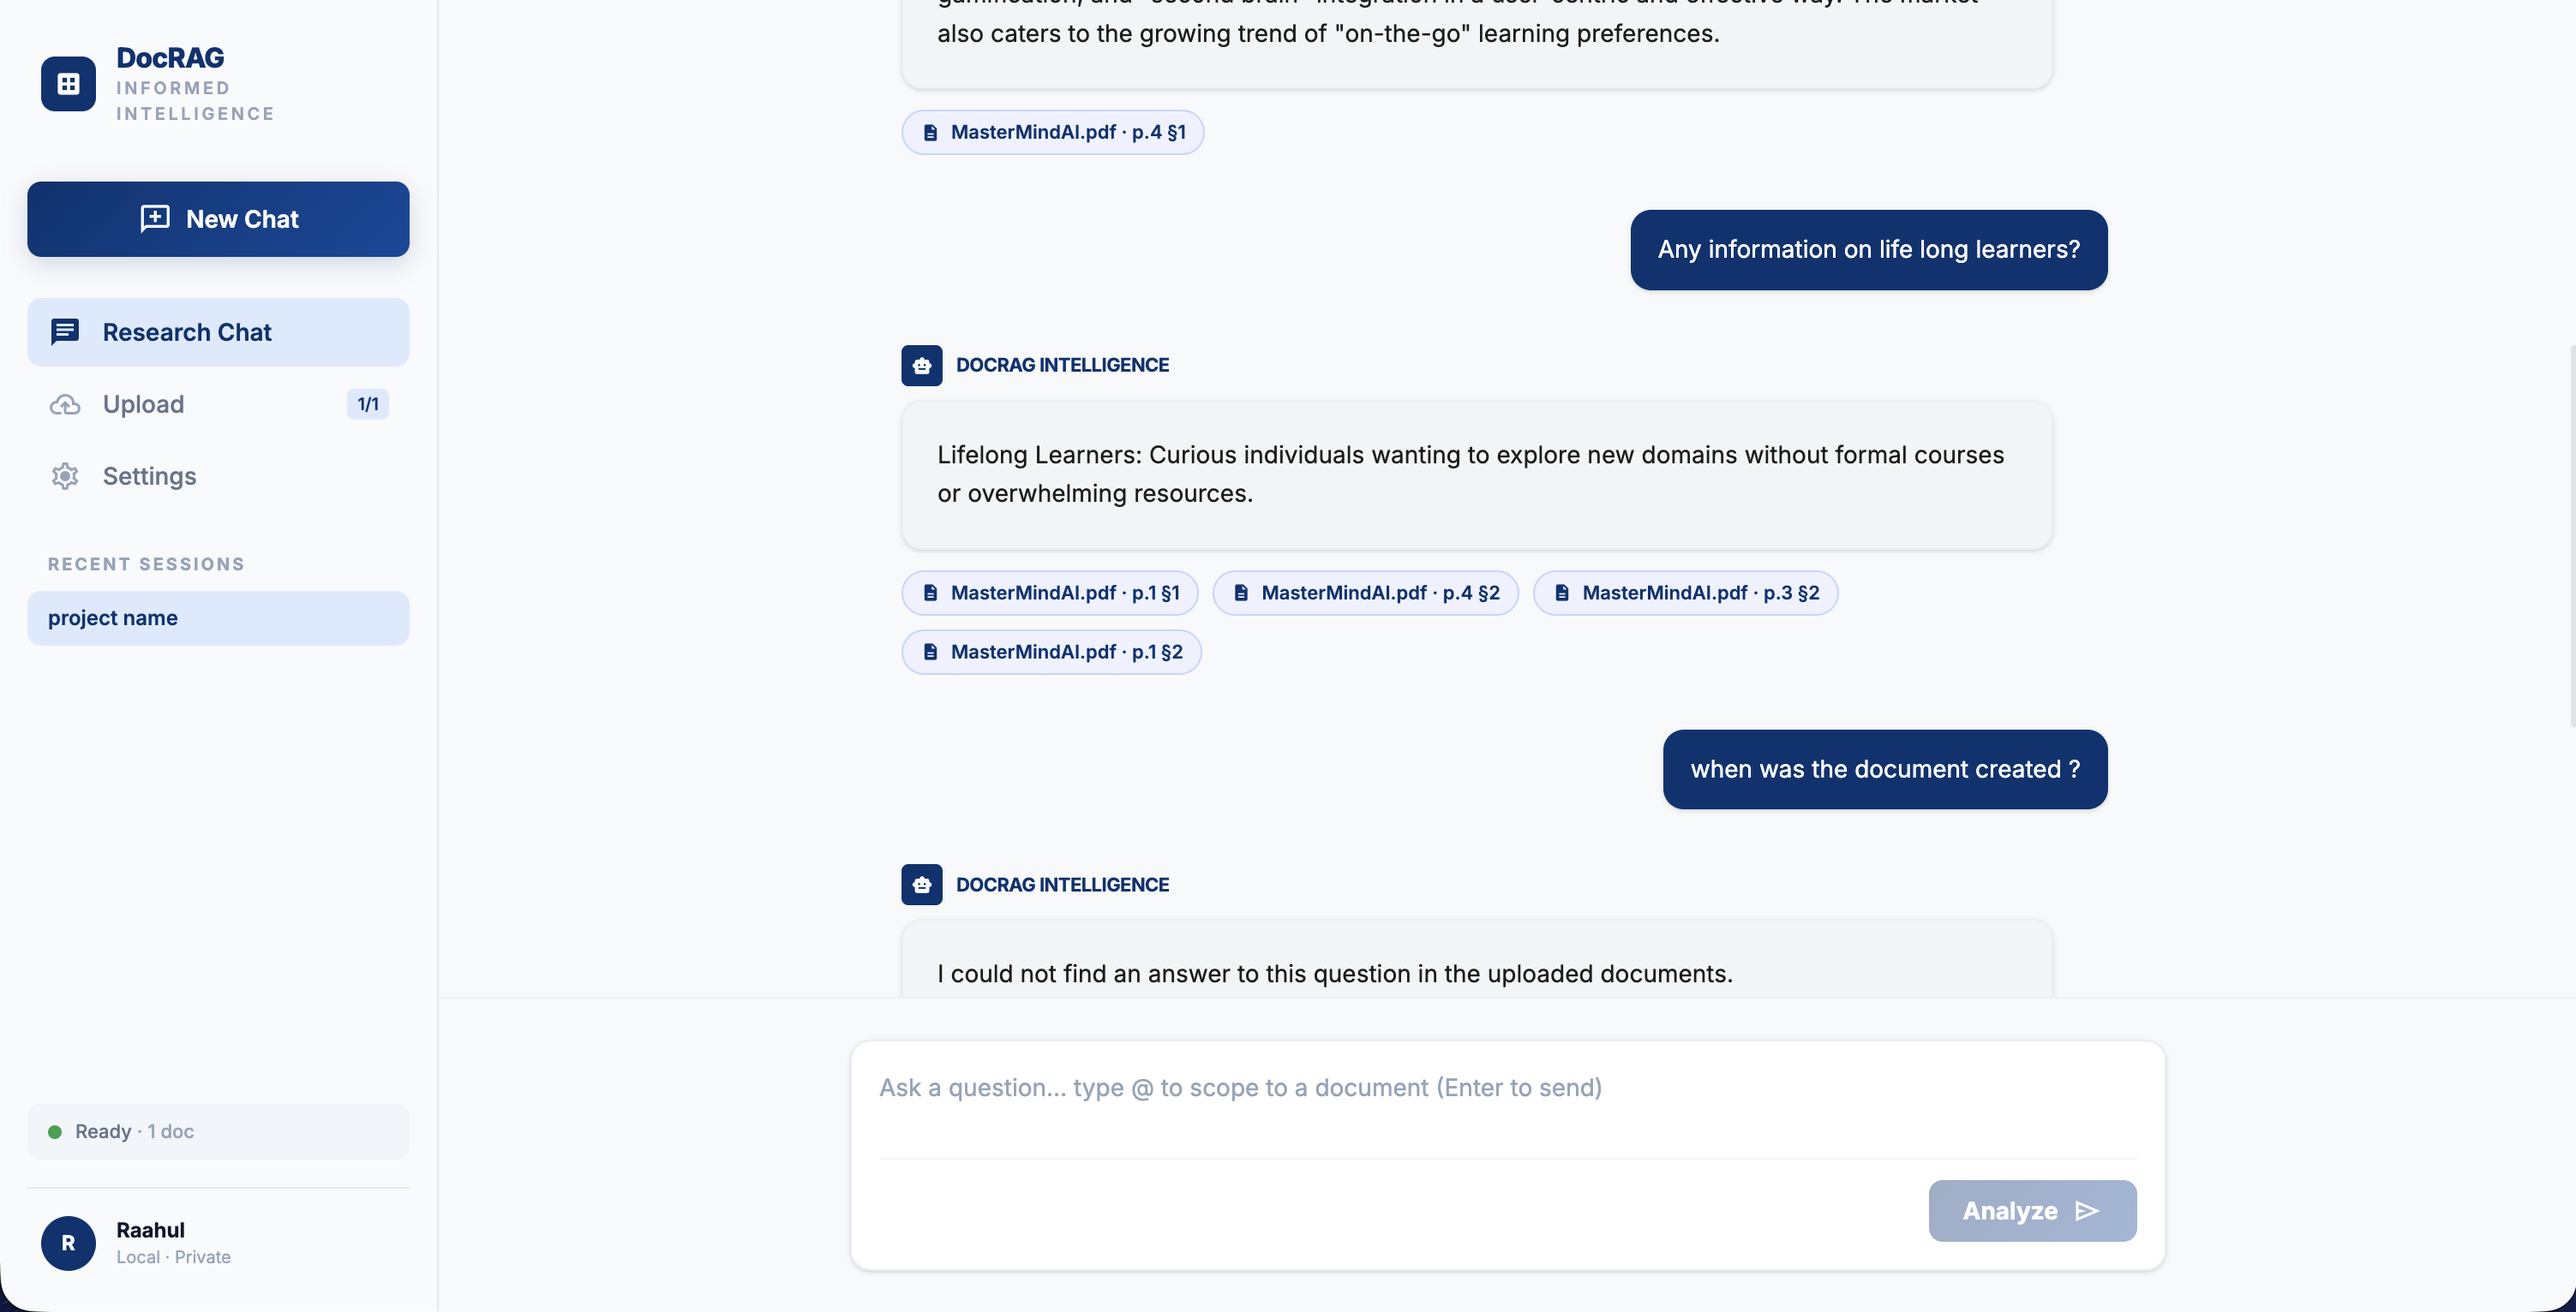
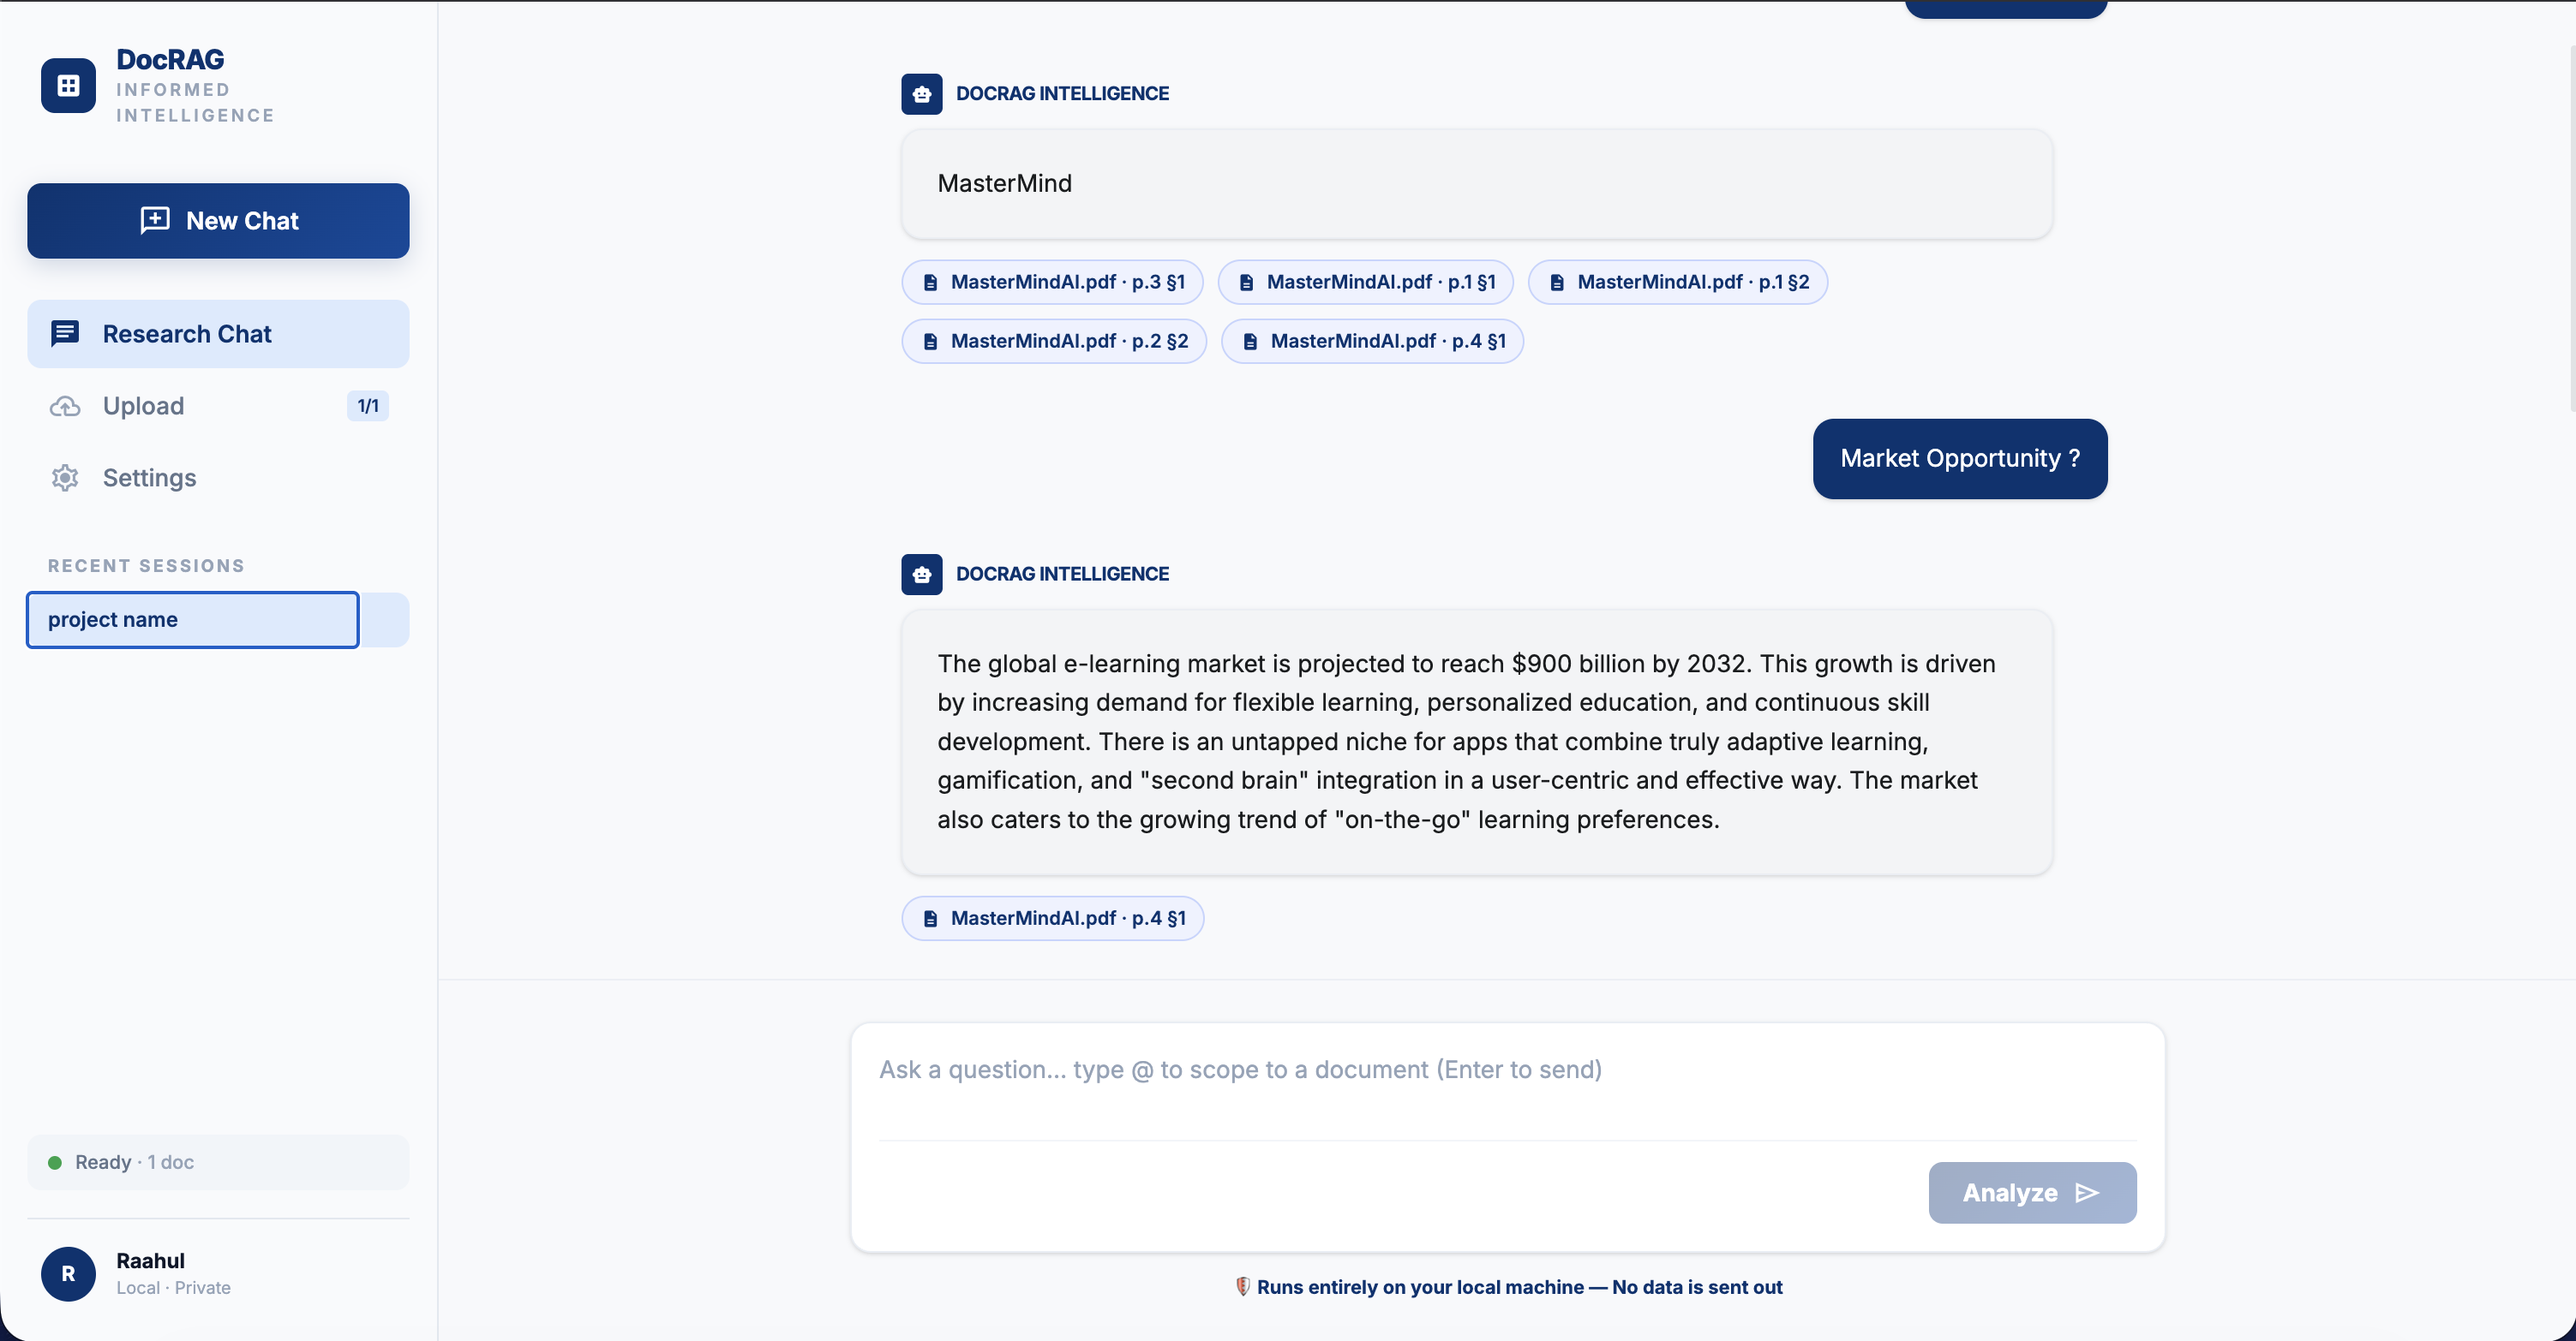
feat: update hero section with chat screenshot and glow effect
- Replace skeleton placeholder with 03-chat.png in hero
- Add radial glow behind image for visual depth
- Align image with hero heading, increase image size
- Update screenshot in docs

diff --git a/index.html b/index.html
@@ -178,7 +178,7 @@
       display: grid;
       grid-template-columns: 1fr 1fr;
       gap: 80px;
-      align-items: center;
+      align-items: start;
       position: relative;
       z-index: 1;
     }
@@ -983,13 +983,11 @@
         </div>
       </div>
     </div>
-    <div class="hero-visual">
-      <div class="hero-visual-bar short"></div>
-      <div class="hero-visual-bar mid"></div>
-      <div class="hero-visual-screen">
-        <div class="screenshot-icon">🖥</div>
-        <div class="screenshot-placeholder-text">App Screenshot Coming Soon</div>
-      </div>
+    <div style="position: relative; align-self: start; padding-top: 72px;">
+      <!-- Glow behind image -->
+      <div style="position:absolute; inset:-30px; background: radial-gradient(ellipse at center, rgba(96,165,250,0.4) 0%, rgba(0,87,168,0.25) 50%, transparent 75%); border-radius: 32px; filter: blur(28px); z-index:0;"></div>
+      <img src="docs/screenshots/03-chat.png" alt="Document RAG Chat"
+        style="position:relative; z-index:1; width:120%; max-width:120%; margin-left:-10%; display:block; border-radius:16px; border:1px solid rgba(255,255,255,0.15); box-shadow: 0 12px 60px rgba(0,0,0,0.5);" />
     </div>
   </div>
 </section>
